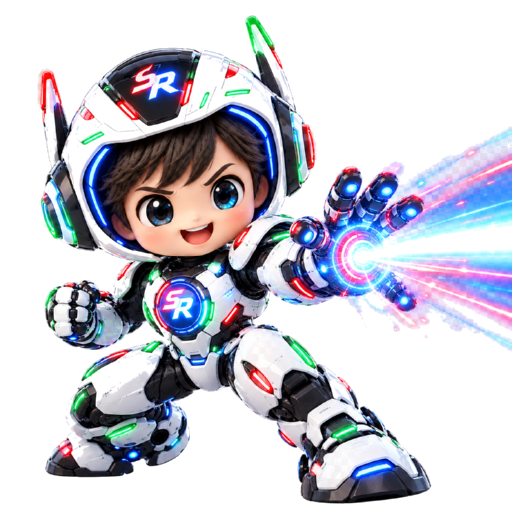
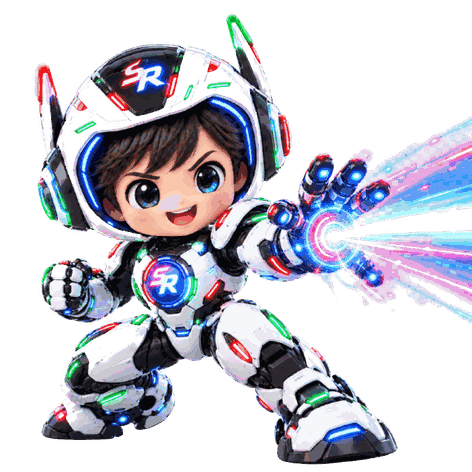
Make the admin app open instantly (4-phase performance work)
วัดจริงก่อนแก้ (UAT): เปิดแอป ~32 วิ · ค่าคงที่ของ Apps Script 1.6 วิ/คำขอ · แดชบอร์ดบริษัท 16-18 วิ

เฟส 1 — ลดจำนวนคำขอ: action เดียว getAdminBootstrap (32_admin_bootstrap.gs) คืนสิทธิ์+บริษัท+
ตัวแทน+แดชบอร์ด · หน้าเว็บวาดจาก snapshot ใน localStorage ทันทีแล้วค่อยอัปเดตทับ
(เปิดรอบถัดไปเห็นข้อมูลใน ~60 ms) · กันยิง getAdminDashboard ซ้ำด้วย BOOT_IN_FLIGHT

เฟส 2 — ชั้นอ่านข้อมูล: memo ต่อคำขอ + แคช CacheService สำหรับตารางแม่ 20 ตาราง (TTL 5 นาที)
ล้างแคชอัตโนมัติทุกทางที่เขียนผ่าน helper และล้างเองที่จุดเขียนแบบดิบ (liff_users, migrate หน่วย)
วันที่จาก Sheets ถูกแปลงเป็นสตริงมาตรฐานก่อนเข้าแคช เพื่อให้ข้อมูลจากแคชกับอ่านสดหน้าตาเหมือนกัน

เฟส 3 — แดชบอร์ด O(1): ตาราง sales_daily ในชีตกลาง (31_sales_rollup.gs) อัปเดตตอนบันทึก/ยกเลิกบิล
แดชบอร์ดฝั่งบริษัทเลิกเปิดไฟล์ของทุกตัวแทน (เดิม 16-18 วิ และโตตามจำนวนตัวแทน)
มี rebuildSalesDaily() ไว้ซ่อมตัวเลขย้อนหลัง

เฟส 4 — ไฟล์ static: มาสคอต 344 KB -> 58 KB (ย่อเป็น 472px + PNG8 ตาเปล่าแยกไม่ออก)
pricelist-parser.js เปลี่ยนเป็น lazy load เฉพาะตอนเข้าหน้านำเข้าใบราคา

diff --git a/frontend-admin/index.html b/frontend-admin/index.html
@@ -400,13 +400,13 @@
 </head>
 <body>
 <script src="config.js?v=20260924"></script>   <!-- ใส่ ?v= ทุกครั้งที่แก้ config.js: เบราว์เซอร์แคชไฟล์นี้ไว้ ถ้าไม่บัมป์ ผู้ใช้เดิมจะยังคุยกับ backend ตัวเก่า -->
-<script src="pricelist-parser.js"></script>
+<!-- pricelist-parser.js โหลดแบบ lazy ตอนเข้าหน้านำเข้าไฟล์ (ดู ensurePricelistParser) — ไม่ถ่วงการเปิดแอป -->
 <div id="env-banner" style="display:none"></div>
 
 <!-- ══════════ LOGIN ══════════ -->
 <div id="login-screen">
   <div class="login-card">
-    <img src="mascot-sr1.png?v=3" alt="Ranger TOPSALES" class="login-mascot">
+    <img src="mascot-sr1.png?v=4" alt="Ranger TOPSALES" class="login-mascot" width="236" height="236" fetchpriority="high" decoding="async">
     <h1>Ranger TOPSALES</h1>
     <p>เข้าสู่ระบบ Admin App</p>
     <div class="err" id="login-err"></div>
@@ -461,7 +461,7 @@
 
     <aside class="sidebar" id="sidebar">
       <div class="sb-header">
-        <div class="sb-logo"><span class="sb-logo-mark"><img src="mascot-sr1.png?v=3" alt="SR"></span><span class="sb-logo-txt">TOPSALES</span></div>
+        <div class="sb-logo"><span class="sb-logo-mark"><img src="mascot-sr1.png?v=4" alt="SR" width="60" height="60" decoding="async"></span><span class="sb-logo-txt">TOPSALES</span></div>
         <button class="sb-ctrl-btn" id="pinBtn" title="ปักหมุดเมนูไว้" onclick="togglePin()">📌</button>
       </div>
       <div class="sb-company">
@@ -1431,12 +1431,23 @@ async function showCompanyPicker(){
   document.getElementById('picker-screen').style.display = 'flex';
   const list = document.getElementById('picker-tenants');
   list.innerHTML = '<div class="sub" style="padding:8px 4px">กำลังโหลดรายชื่อตัวแทน...</div>';
-  const [r, coR] = await Promise.all([callApi('listTenants', {}), callApi('getCompanyProfile', {})]);
-  if (coR && coR.success) { COMPANY = coR.company; applyCompanyName(); }
-  if (!r.success) { list.innerHTML = '<div class="sub" style="padding:8px 4px">'+esc(r.message)+'</div>'; return; }
+  const snap = snapLoad();
+  if (snap && snap.data) {                       // รายชื่อของเมื่อครู่ขึ้นก่อน แล้วค่อยรีเฟรช
+    if (snap.data.company) { COMPANY = snap.data.company; applyCompanyName(); }
+    if (snap.data.tenants) { tenantsCache = snap.data.tenants; renderPickerTenants(tenantsCache); }
+  }
+  const b = await callApi('getAdminBootstrap', {});
+  if (b && b.success) snapSave(b);
+  const r = (b && b.success) ? { success: true, data: b.tenants || [] } : { success: false, message: (b && b.message) || 'โหลดรายชื่อตัวแทนไม่สำเร็จ' };
+  if (b && b.success && b.company) { COMPANY = b.company; applyCompanyName(); }
+  if (!r.success) { if (!snap) list.innerHTML = '<div class="sub" style="padding:8px 4px">'+esc(r.message)+'</div>'; return; }
   tenantsCache = r.data;
   // ไม่ต้องโชว์ตัวแทน 'บ้าน' (HOUSE) ในลิสต์ เพราะมันคือบัญชีขายตรงของบริษัทเอง — เลือกจากปุ่มบริษัทด้านบนได้เลย
-  const pickable = r.data.filter(t => !t.isHouse);
+  renderPickerTenants(r.data);
+}
+function renderPickerTenants(rows){
+  const list = document.getElementById('picker-tenants');
+  const pickable = (rows || []).filter(t => !t.isHouse);
   list.innerHTML = pickable.length ? pickable.map(t =>
     '<button class="picker-row" onclick="pickTenantContext(\''+esc(t.tenantId)+'\')">' +
       '<span class="mark" style="background:var(--green)">'+esc(String(t.tenantId).slice(0,2))+'</span>' +
@@ -1459,6 +1470,35 @@ function backToPicker(){
   showCompanyPicker();
 }
 
+/* ══════════ เปิดแอปให้ "ปุ๊บติด" ══════════
+   วัดจริง 24 ก.ย. 2026: ค่าคงที่ของ Apps Script ≈ 1.6 วิ **ต่อคำขอ** — เดิมเปิดแอปยิง 4 คำขอเป็นทอดๆ รวม ~32 วิ
+   ตอนนี้ 1) วาดจาก snapshot ที่เก็บไว้ทันที (ผู้ใช้เห็นแอปพร้อมใช้ทันที ไม่ต้องรอเน็ต)
+          2) ยิง getAdminBootstrap คำขอเดียว ได้ สิทธิ์ + บริษัท + ตัวแทน + แดชบอร์ด แล้วค่อยอัปเดตทับ */
+const LS_SNAP = 'topshop_' + APP_ENV + '_snapshot';
+function snapKey(){ return (SESSION ? SESSION.username : '?') + '|' + (EFFECTIVE_TENANT_ID() || 'owner'); }
+function snapLoad(){
+  try { return (JSON.parse(localStorage.getItem(LS_SNAP) || '{}'))[snapKey()] || null; } catch (e) { return null; }
+}
+function snapSave(data){
+  try {
+    const all = JSON.parse(localStorage.getItem(LS_SNAP) || '{}');
+    all[snapKey()] = { ts: Date.now(), data: data };
+    localStorage.setItem(LS_SNAP, JSON.stringify(all));
+  } catch (e) { /* โควตาเต็ม/โหมดส่วนตัว — แค่ไม่มีของเก่าให้วาดก่อน */ }
+}
+/* เอาผลจาก getAdminBootstrap (หรือ snapshot) ไปใส่สถานะแอปแล้ววาดใหม่
+   fromSnapshot = true → เป็นข้อมูลของเมื่อครู่ ให้ขึ้นป้าย "กำลังอัปเดต…" ไว้ */
+function applyBootstrap(b, fromSnapshot){
+  if (!b) return;
+  if (b.permissions) MY_PERMS = { isSuper: !!b.isSuperAdmin, permissions: b.permissions };
+  if (b.roleLabel) { const el = document.getElementById('who-role'); if (el) el.textContent = b.roleLabel; }
+  if (b.company) { COMPANY = b.company; applyCompanyName(); }
+  if (b.tenants) tenantsCache = b.tenants;
+  renderNav();
+  if (b.dashboard) { renderDashboard(b.dashboard, fromSnapshot); if (!fromSnapshot) DASH_FRESH_TS = Date.now(); }
+}
+let DASH_FRESH_TS = 0, BOOT_IN_FLIGHT = false;   // BOOT_IN_FLIGHT = กำลังรอ getAdminBootstrap (ซึ่งมีแดชบอร์ดมาด้วย)   // แดชบอร์ดมากับ bootstrap แล้วเมื่อไหร่ — กันหน้าแรกยิง getAdminDashboard ซ้ำอีกคำขอ
+
 async function enterApp(){
   document.getElementById('login-screen').style.display = 'none';
   document.getElementById('picker-screen').style.display = 'none';
@@ -1479,15 +1519,15 @@ async function enterApp(){
   } else scopeLabelText = COMPANY.name || 'บริษัทเจ้าของสินค้า';
   document.getElementById('scopeLabel').textContent = scopeLabelText;
   renderNav();
+  BOOT_IN_FLIGHT = true;
   gotoView('dashboard');
   // โหลดสิทธิ์จริงของผู้ใช้ + ชื่อบริษัท แล้ววาดเมนู/ป้ายบริบทอีกรอบ (ครั้งแรกวาดแบบเห็นทุกเมนูไปก่อนเพื่อไม่ให้หน้าค้าง)
-  const [permR, coR] = await Promise.all([callApi('getMyPermissions', {}), callApi('getCompanyProfile', {})]);
-  if (permR && permR.success) {
-    MY_PERMS = { isSuper: !!permR.isSuperAdmin, permissions: permR.permissions || {} };
-    document.getElementById('who-role').textContent = permR.roleLabel || SESSION.roleCode;
-    renderNav();
-  }
-  if (coR && coR.success) { COMPANY = coR.company; applyCompanyName(); }
+  const snap = snapLoad();
+  if (snap) applyBootstrap(snap.data, true);          // ของเมื่อครู่ — เห็นทันที
+  const b = await callApi('getAdminBootstrap', {});   // สิทธิ์ + บริษัท + ตัวแทน + แดชบอร์ด ในคำขอเดียว
+  BOOT_IN_FLIGHT = false;
+  if (b && b.success) { applyBootstrap(b, false); snapSave(b); }
+  else if (!snap) { const d = document.getElementById('dash-date'); if (d) d.textContent = (b && b.message) || 'โหลดข้อมูลไม่สำเร็จ'; }
 }
 
 /* ไอคอนเมนูเป็น inline SVG เส้นบาง (เดิมใช้ emoji ซึ่งหน้าตาต่างกันทุกเครื่อง/ทุก OS และดูไม่เข้าชุดกับธีม minimal)
@@ -1768,11 +1808,19 @@ function gotoView(view){
 
 /* ══════════════ DASHBOARD ══════════════ */
 async function loadDashboard(){
-  document.getElementById('dash-date').textContent = 'กำลังโหลด...';
+  if (BOOT_IN_FLIGHT || Date.now() - DASH_FRESH_TS < 30000) return;   // มากับ getAdminBootstrap อยู่แล้ว   // เพิ่งได้มากับ getAdminBootstrap ไม่ต้องยิงซ้ำ
+  const snap = snapLoad();
+  if (snap && snap.data && snap.data.dashboard) renderDashboard(snap.data.dashboard, true);
+  else document.getElementById('dash-date').textContent = 'กำลังโหลด...';
   const r = await callApi('getAdminDashboard', {});
   if (!r.success) { toast(r.message, true); return; }
+  renderDashboard(r, false);
+  const s2 = snapLoad();                       // เก็บตัวเลขล่าสุดไว้ให้รอบหน้าเห็นทันที
+  if (s2 && s2.data) { s2.data.dashboard = r; snapSave(s2.data); }
+}
+function renderDashboard(r, fromSnapshot){
   const tz = new Date().toLocaleDateString('th-TH', {year:'numeric', month:'long', day:'numeric'});
-  document.getElementById('dash-date').textContent = tz;
+  document.getElementById('dash-date').textContent = tz + (fromSnapshot ? ' · กำลังอัปเดต…' : '');
 
   if (r.scope === 'tenant'){
     document.getElementById('dash-kpis').innerHTML =
@@ -2849,6 +2897,17 @@ function loadSheetJS(){
     document.head.appendChild(s);
   });
 }
+// ตัวอ่านใบราคา (pricelist-parser.js 16KB) โหลดตอนจะใช้จริงเท่านั้น — เปิดแอปครั้งแรกจะได้ไม่ต้องรอ
+function ensurePricelistParser(){
+  if (window.PricelistParser) return Promise.resolve(window.PricelistParser);
+  return new Promise((resolve, reject) => {
+    const s = document.createElement('script');
+    s.src = 'pricelist-parser.js?v=20260924';
+    s.onload = () => resolve(window.PricelistParser);
+    s.onerror = () => reject(new Error('โหลดตัวอ่านใบราคาไม่สำเร็จ'));
+    document.head.appendChild(s);
+  });
+}
 const plNormCode = c => String(c).trim().toLowerCase();
 function plProductCodes(p){ return [p.product_code].concat(String(p.alias_codes||'').split(',')).map(plNormCode).filter(Boolean); }
 async function pliPickFile(input){
@@ -2856,8 +2915,8 @@ async function pliPickFile(input){
   const st = document.getElementById('pli-status');
   st.textContent = 'กำลังอ่านไฟล์...';
   try {
-    const [XL, buf] = await Promise.all([loadSheetJS(), file.arrayBuffer()]);
-    const res = PricelistParser.parse(XL, buf, { type: 'array' });
+    const [XL, buf, PP] = await Promise.all([loadSheetJS(), file.arrayBuffer(), ensurePricelistParser()]);
+    const res = PP.parse(XL, buf, { type: 'array' });
     const sheet = res.sheets.find(s => s.items.length);
     if (!sheet) { st.textContent = 'ไม่พบตารางราคาในไฟล์นี้ (ต้องเป็นรูปแบบ "ใบรายการขาย" ที่มีหัวราคาเงินสด/เครดิต)'; return; }
     PLI = { sheet, fileName: file.name };
@@ -2865,7 +2924,7 @@ async function pliPickFile(input){
     if (pr && pr.success) productsCache = pr.data;
     if (gr.success) { customerGroupsCache = gr.data; document.getElementById('pli-groups').innerHTML = gr.data.map(g => '<option value="'+esc(g.name)+'">').join(''); }
     // เดาชื่อ/กลุ่ม/ช่วงเวลาจากหัวไฟล์ (แก้ได้ก่อนนำเข้า)
-    const period = PricelistParser.parsePeriod(sheet.title) || {};
+    const period = (window.PricelistParser || PP).parsePeriod(sheet.title) || {};
     const inParen = (sheet.title.match(/\(([^)]*)\)/) || [])[1] || '';
     // ไม่มีวงเล็บ (เช่น "…กันยายน 2569  ขายให้ศูนย์") → ใช้ข้อความท้ายหลังปี พ.ศ.
     const afterYear = (sheet.title.match(/25\d\d\s+(.+)$/) || [])[1] || '';

diff --git a/CLAUDE.md b/CLAUDE.md
@@ -99,6 +99,31 @@ it fills the gaps around them.
   ลบได้ด้วย `clasp delete-script 1BDLcQIB…` เมื่อเจ้าของระบบสั่ง)
 - ยังไม่ merge `UAT` → `main` จนกว่า backend prod จะตอบล็อกอินได้จริง (ไม่งั้น `/admin/` เปิดมาแล้วพัง)
 
+## ความเร็วในการเปิดแอป — สถาปัตยกรรมที่วางไว้ (2026-09-24)
+
+ตัวเลขที่วัดจริงบน UAT ก่อนแก้: เปิดแอปครั้งหนึ่งใช้ ~32 วินาที (ล็อกอิน 9.3 + ตัวแทน 2.7 + สิทธิ์/บริษัท 3.9 + แดชบอร์ด 16-18)
+
+**ข้อเท็จจริงที่ต้องจำ**
+- **ค่าคงที่ของ Apps Script Web App ≈ 1.6 วินาที ต่อ 1 คำขอ** (วัดด้วย action ที่ไม่มีจริง — แค่ routing)
+  กดให้ต่ำกว่านี้ไม่ได้ → **ออกแบบให้ยิงน้อยครั้ง** สำคัญกว่าการทำให้แต่ละคำขอเร็วขึ้น
+- เปิด Spreadsheet + อ่าน 1 ชีต ≈ +1.5 วินาที · `_ssCache` มีอายุแค่ภายใน execution เดียว
+
+**กติกาที่ใช้อยู่**
+1. **หน้าแรกยิงคำขอเดียว** — `getAdminBootstrap` (`32_admin_bootstrap.gs`) คืน สิทธิ์ + ข้อมูลบริษัท + รายชื่อตัวแทน +
+   แดชบอร์ด · ห้ามเพิ่มคำขออื่นตอนเปิดแอป ให้ยัดข้อมูลเข้าไปใน bootstrap แทน
+2. **หน้าเว็บวาดจาก snapshot ก่อนเสมอ** — เก็บผล bootstrap ล่าสุดไว้ใน `localStorage` (`topshop_<env>_snapshot`)
+   เปิดแอปรอบถัดไปเห็นข้อมูลทันที (วัดได้ ~60 ms) แล้วค่อยอัปเดตทับเมื่อข้อมูลสดมา (ขึ้นป้าย "กำลังอัปเดต…")
+   ดู `snapLoad/snapSave/applyBootstrap` ใน `frontend-admin/index.html`
+3. **ชั้นอ่านข้อมูลมี 2 ชั้นแคช** (`02_helpers.gs`): `_objMemo` ต่อคำขอ + `CacheService` ข้ามคำขอสำหรับตารางแม่ที่
+   เปลี่ยนน้อย (`SHEET_CACHE_TABLES`, TTL 5 นาที) — เขียนผ่าน `centralAppend/centralUpdate/centralAppendMany/
+   deleteRowsWhere` ล้างแคชให้อัตโนมัติ · **เขียนชีตแบบดิบต้องเรียก `centralInvalidate('<ชีต>')` เองเสมอ**
+   ห้ามใส่ตารางเอกสาร/ตัวนับเลขที่/liff_users/admin_users เข้าไปในลิสต์แคช
+4. **แดชบอร์ดอ่านยอดสรุปรายวัน ไม่เปิดไฟล์ตัวแทน** — ตาราง `sales_daily` ในชีตกลาง (`31_sales_rollup.gs`)
+   ทุกจุดที่บันทึก/ยกเลิกบิลต้องเรียก `bumpSalesDaily()` ด้วย · ตัวเลขเพี้ยนซ่อมด้วย `rebuildSalesDaily('yyyy-mm-dd')`
+   (action `rebuildSalesDaily` สำหรับ super_admin — ช้าเพราะเปิดไฟล์ทุกตัวแทน ใช้เฉพาะตอนซ่อม)
+5. **ไฟล์ static**: มาสคอตบีบเหลือ 58 KB (เดิม 344 KB) · `pricelist-parser.js` โหลดแบบ lazy ตอนเข้าหน้านำเข้าไฟล์
+   (`ensurePricelistParser`) · แก้ `config.js` ต้องบัมป์ `?v=` เสมอ
+
 ## ตัวตนกลาง = LINE user id + สายอนุมัติตามลำดับชั้น (กติกาเจ้าของระบบ 2026-09-24)
 
 - **ทุกบัญชีของทุกแอปผูกกับ LINE user id เสมอ** — `admin_users.line_user_id` (คอลัมน์ใหม่) และ
